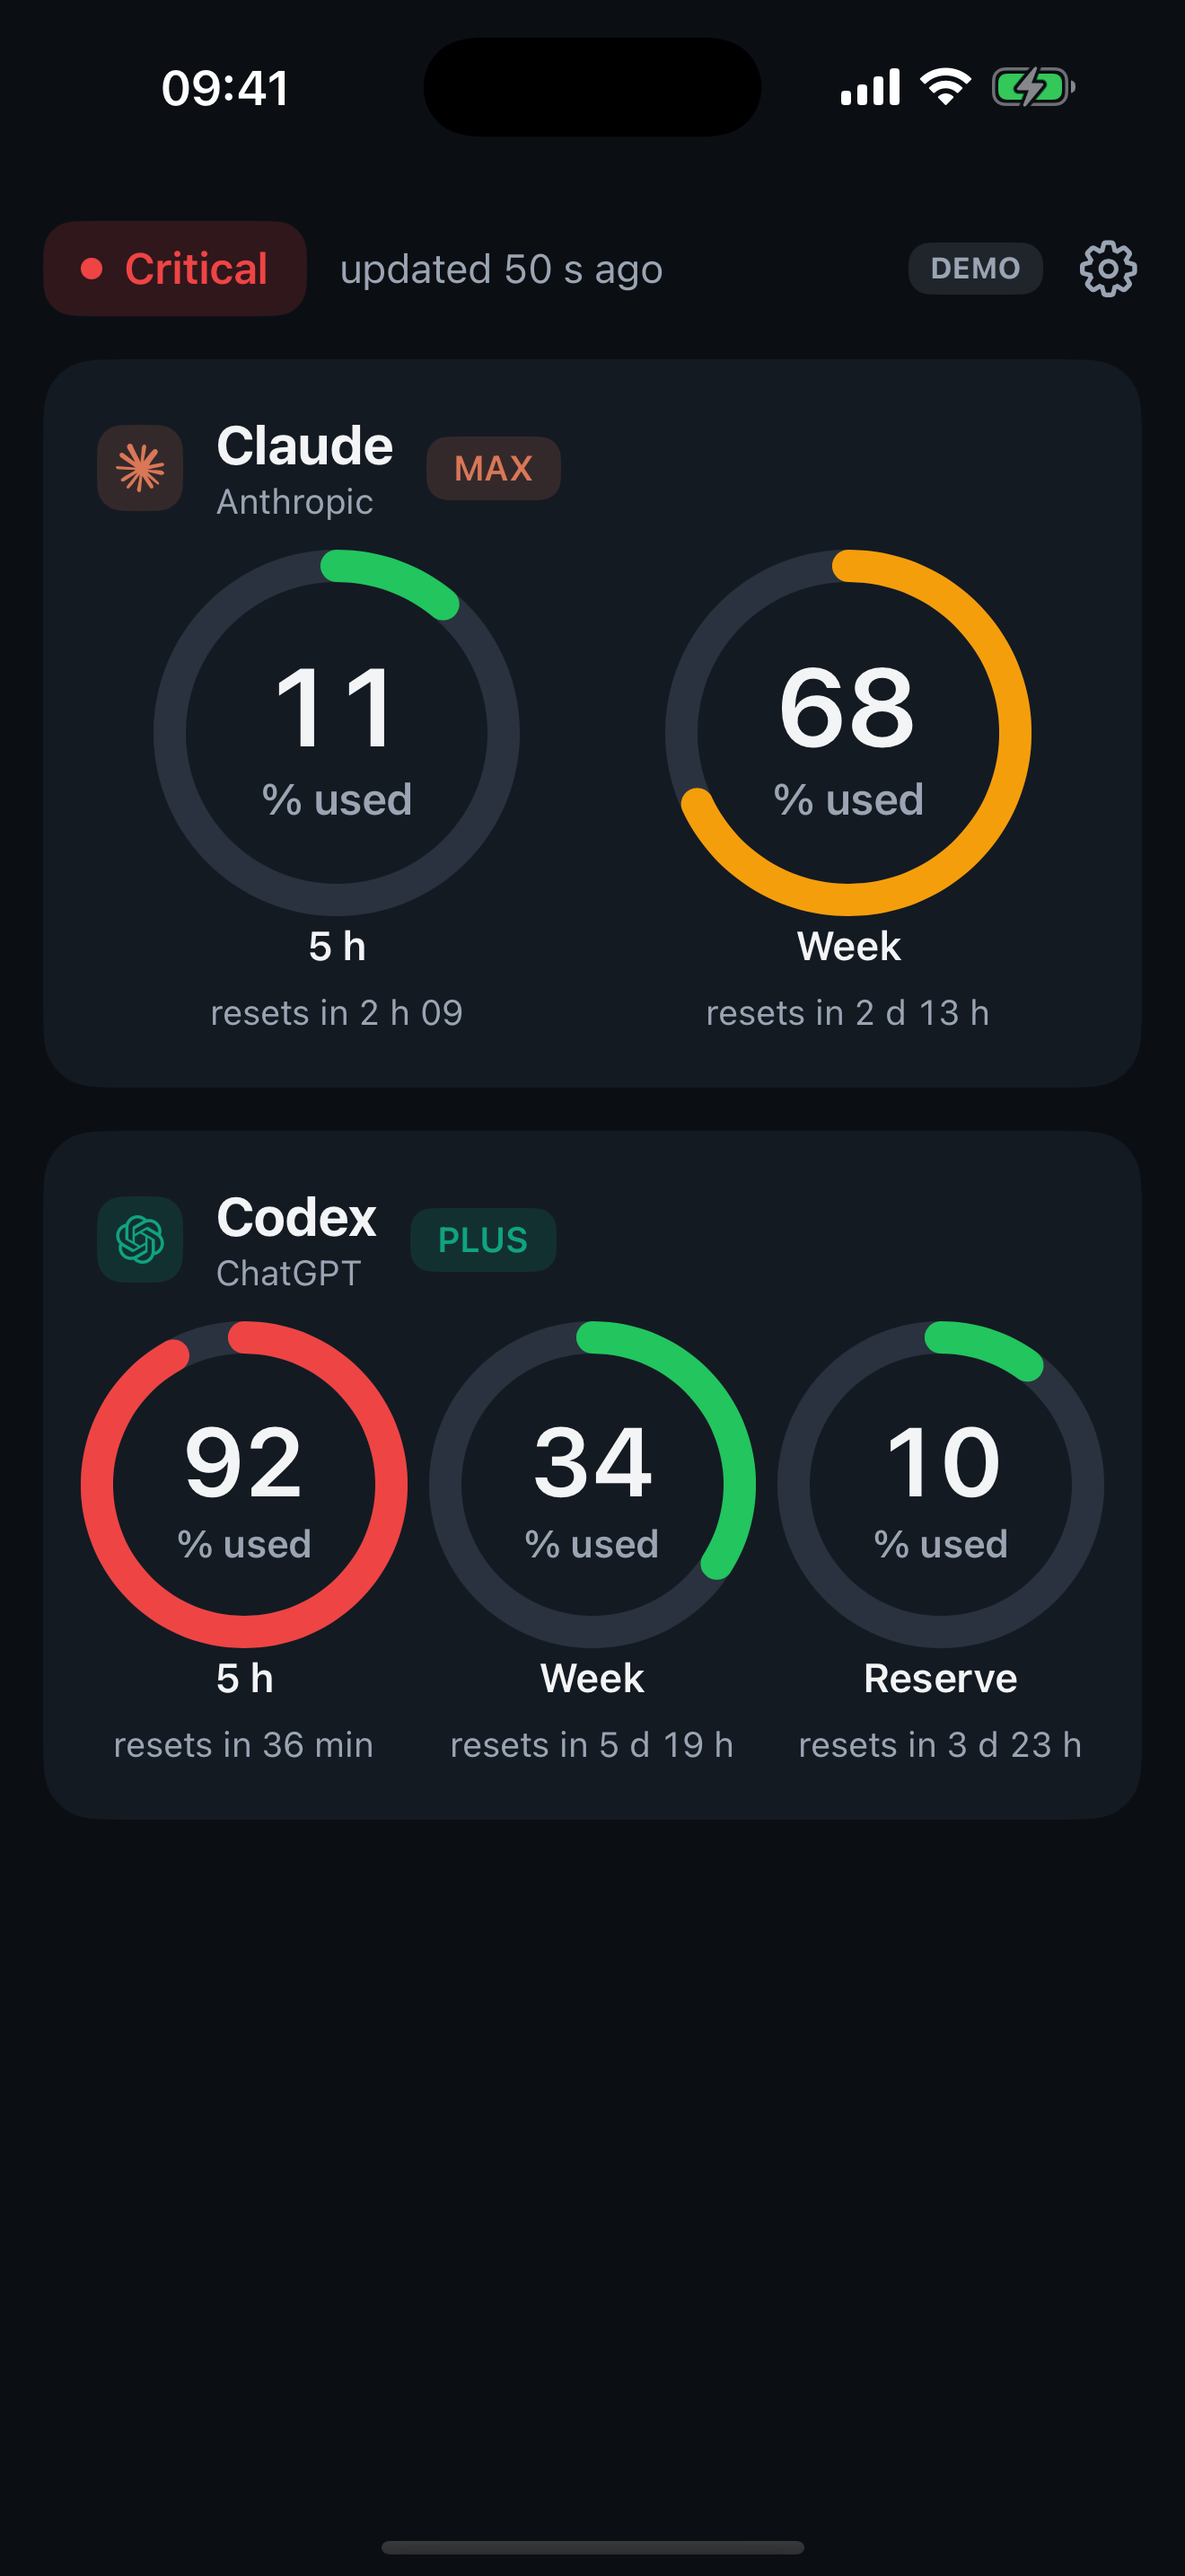
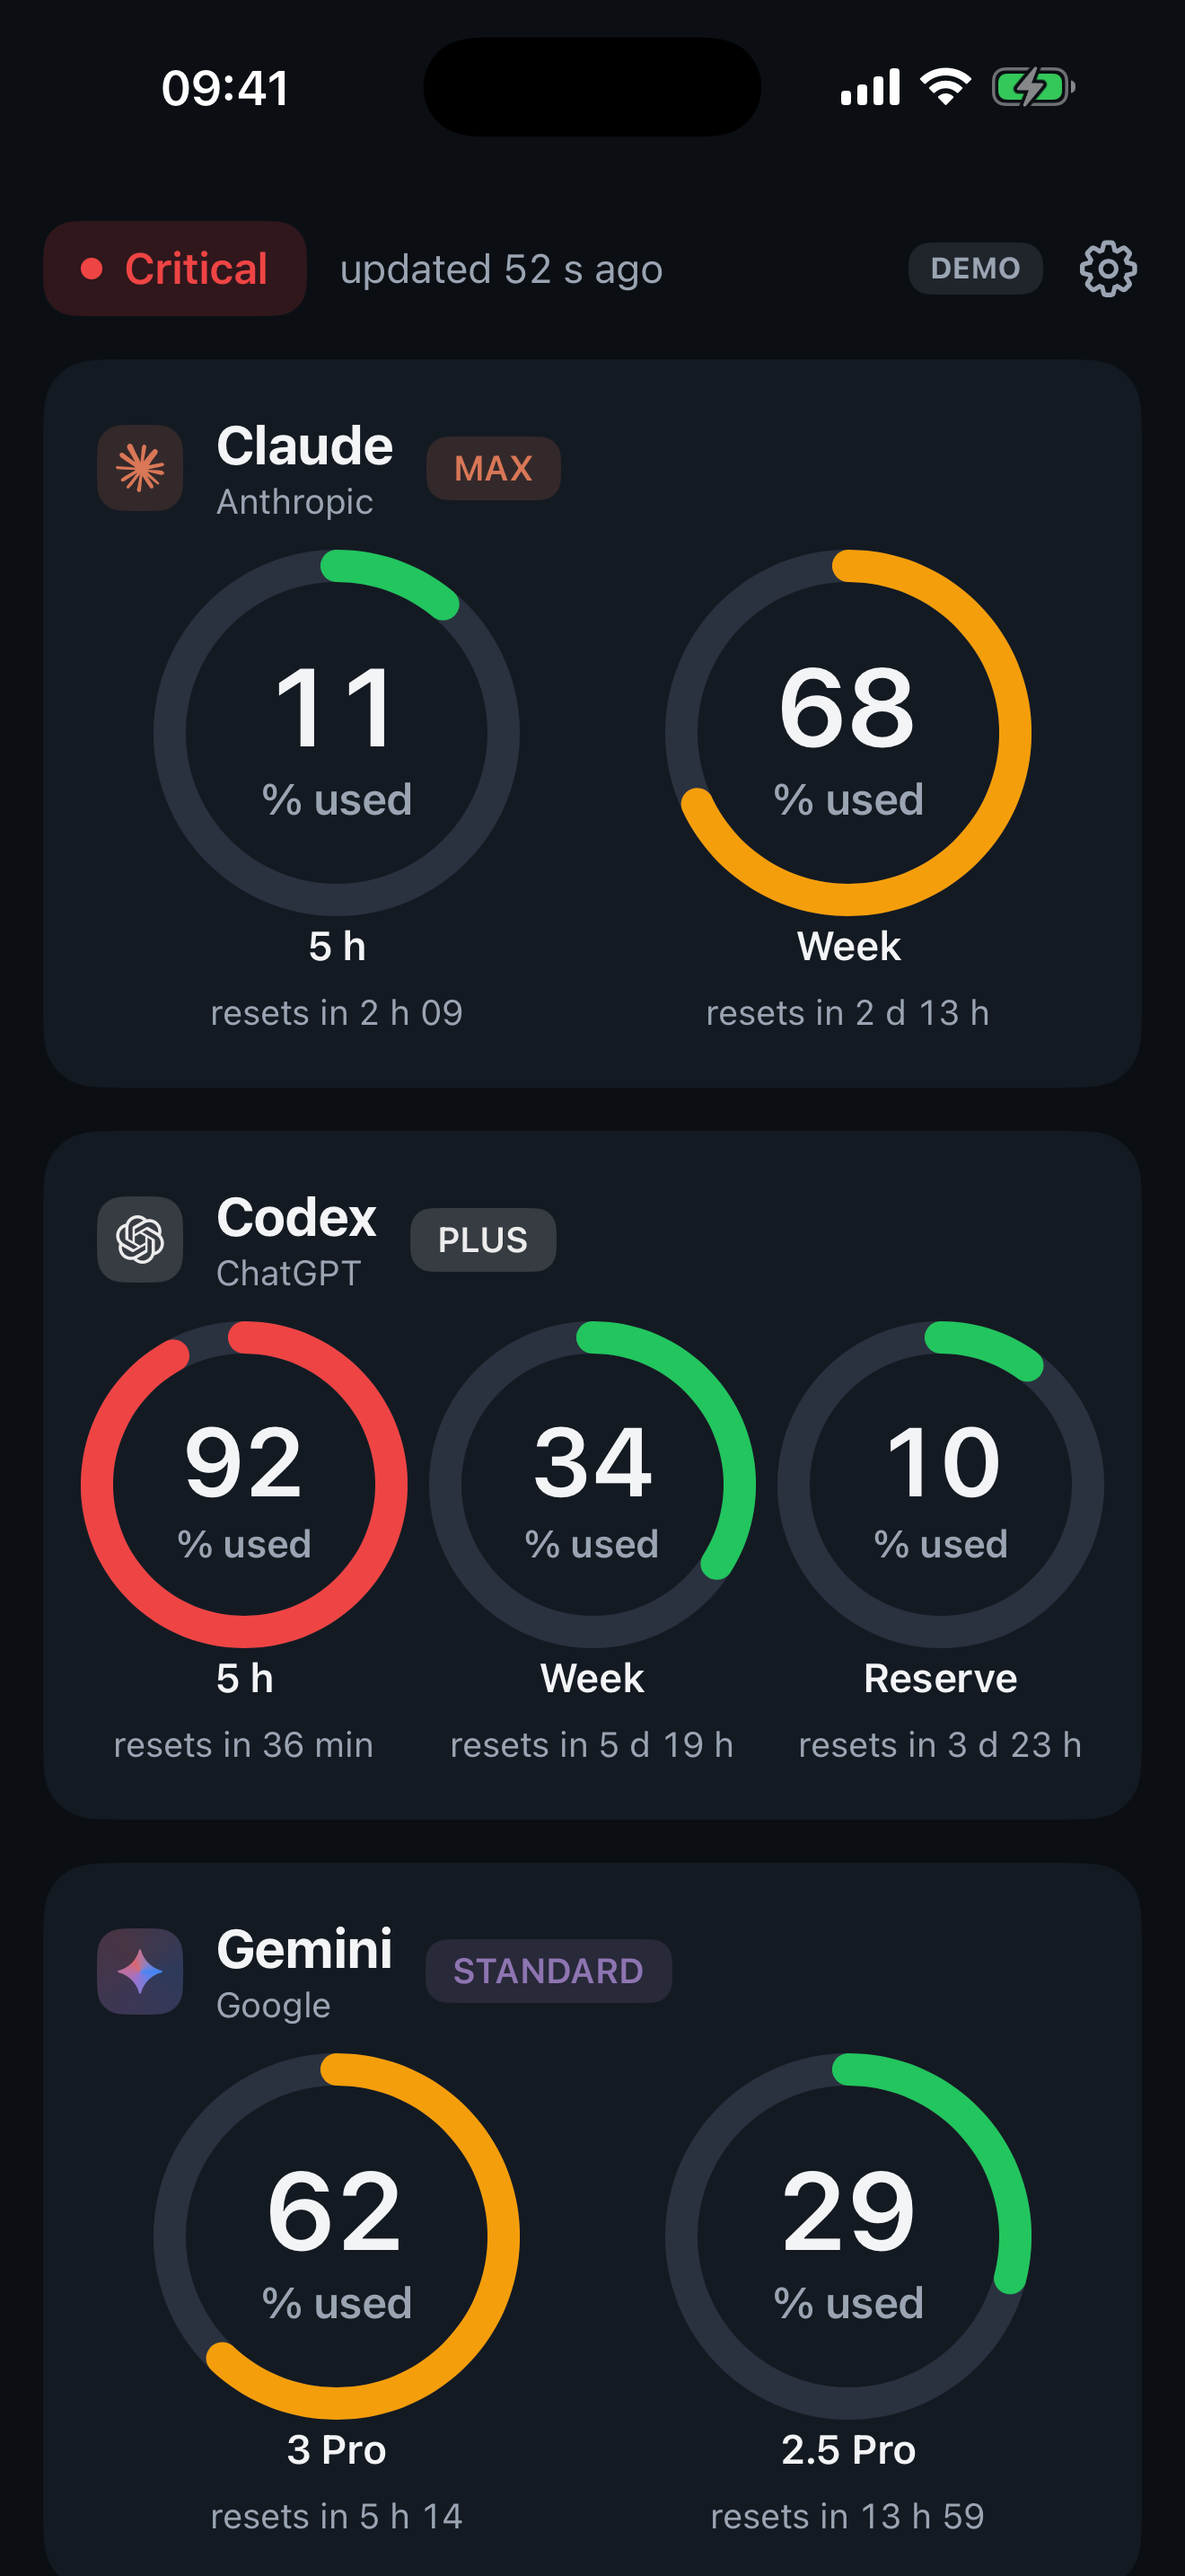
feat(ios): a Gemini card, three rings on the medium widget, one headline on the small
The small tile drops to the most-consumed provider once three report: three 54 pt rings on a
158 pt tile print numbers nobody reads at arm's length. The Gemini mark is the vendored
single-path star filled with the brand sweep — Xcode's SVG subset renders neither lobehub's
four overlapping gradients nor packed arc flags.

diff --git a/ios/Sources/Shared/WidgetViews.swift b/ios/Sources/Shared/WidgetViews.swift
@@ -84,28 +84,43 @@ struct WidgetProviderGroup: View {
 // MARK: - Home screen
 
 /// Small: one ring per provider — its headline window, the 5 h one when the provider reports
-/// one and its shortest otherwise.
+/// one and its shortest otherwise. Past two providers a small tile can only hold the
+/// headline: three 54 pt rings on a 158 pt tile print numbers nobody reads at arm's length.
 struct QuotaSmallView: View {
     let snapshot: Snapshot
     var now: Date = Date()
 
     @Environment(\.palette) private var palette
 
+    private var reported: [ProviderId] {
+        ProviderId.allCases.filter { snapshot.headlineWindow($0) != nil }
+    }
+
+    /// The providers this tile draws: all of them while there are two, the one closest to
+    /// its limit once there are more.
+    private var shown: [ProviderId] {
+        guard reported.count > 2 else { return reported }
+        return reported
+            .max { (snapshot.headlineWindow($0)?.percent ?? -1) < (snapshot.headlineWindow($1)?.percent ?? -1) }
+            .map { [$0] } ?? reported
+    }
+
     var body: some View {
         let stale = snapshot.isStale(now: now)
         let mode = snapshot.display
+        let diameter: CGFloat = shown.count == 1 ? 84 : 54
         VStack(alignment: .leading, spacing: 8) {
             WidgetHeader(snapshot: snapshot, now: now)
             Spacer(minLength: 0)
             HStack(spacing: 10) {
-                ForEach(ProviderId.allCases, id: \.self) { id in
+                ForEach(shown, id: \.self) { id in
                     if let window = snapshot.headlineWindow(id) {
                         VStack(spacing: 3) {
                             RingGauge(
                                 value: window.value(mode),
                                 severity: stale ? .stale : window.severity,
                                 mode: mode,
-                                diameter: 54,
+                                diameter: diameter,
                                 stroke: QuotaTheme.ringStrokeWidget,
                                 showsCaption: false
                             )
@@ -137,12 +152,17 @@ struct QuotaSmallView: View {
 /// Five rings fit on a 364 pt tile only in a screenshot — at the tile's real size each number
 /// lands around 6 pt of type. So each provider keeps the two windows that matter
 /// (``ProviderStatus/primaryWindows(limit:)``) and the rings grow to fill the space freed.
+/// With three providers the same arithmetic allows one ring each: three headlines, not six
+/// numbers too small to read.
 struct QuotaMediumView: View {
     let snapshot: Snapshot
     var now: Date = Date()
 
-    /// Two providers, two rings each, on one 364 x 170 tile.
-    private var ringDiameter: CGFloat { 66 }
+    private var providerCount: Int { snapshot.orderedProviders().count }
+    private var windowsPerProvider: Int { providerCount > 2 ? 1 : 2 }
+
+    /// Two providers, two rings each, on one 364 x 170 tile; three providers, one each.
+    private var ringDiameter: CGFloat { providerCount > 2 ? 72 : 66 }
 
     var body: some View {
         let stale = snapshot.isStale(now: now)
@@ -150,11 +170,11 @@ struct QuotaMediumView: View {
         VStack(alignment: .leading, spacing: 4) {
             WidgetHeader(snapshot: snapshot, now: now)
             Spacer(minLength: 0)
-            HStack(alignment: .top, spacing: 26) {
+            HStack(alignment: .top, spacing: providerCount > 2 ? 18 : 26) {
                 ForEach(snapshot.orderedProviders(), id: \.name) { entry in
                     WidgetProviderGroup(
                         name: entry.name,
-                        windows: entry.provider.primaryWindows(limit: 2),
+                        windows: entry.provider.primaryWindows(limit: windowsPerProvider),
                         mode: mode,
                         stale: stale,
                         diameter: ringDiameter,
@@ -211,7 +231,7 @@ struct QuotaCircularView: View {
     }
 }
 
-/// Rectangular: one line per provider, "Claude 89% · 2h09" and "Codex 8% · 36m".
+/// Rectangular: one line per reporting provider, "Claude 89% · 2h09", "Codex 8% · 36m".
 struct QuotaRectangularView: View {
     let snapshot: Snapshot
     var now: Date = Date()

diff --git a/ios/Sources/Shared/Cards.swift b/ios/Sources/Shared/Cards.swift
@@ -59,16 +59,37 @@ struct BrandMark: View {
         switch providerName.lowercased() {
         case "claude": return "BrandClaude"
         case "codex": return "BrandCodex"
+        case "gemini": return "BrandGemini"
         default: return nil
         }
     }
+
+    /// The Gemini mark is the one that carries its own palette: a flat tint of that logo is
+    /// a different logo. Xcode's SVG subset does not render lobehub's four overlapping
+    /// gradients, so the vendored single-path star is filled with the brand sweep instead —
+    /// same colours, one shape, and it survives every rendering scale.
+    private var isGemini: Bool { providerName.lowercased() == "gemini" }
 
     var body: some View {
         RoundedRectangle(cornerRadius: size * 0.3, style: .continuous)
             .fill(accent.opacity(0.16))
             .frame(width: size, height: size)
             .overlay {
-                if let assetName {
+                if isGemini {
+                    RoundedRectangle(cornerRadius: size * 0.3, style: .continuous)
+                        .fill(QuotaTheme.geminiSweep)
+                        .opacity(0.18)
+                }
+            }
+            .overlay {
+                if let assetName, isGemini {
+                    Image(assetName)
+                        .renderingMode(.template)
+                        .resizable()
+                        .scaledToFit()
+                        .frame(width: size * 0.56, height: size * 0.56)
+                        .foregroundStyle(QuotaTheme.geminiSweep)
+                } else if let assetName {
                     Image(assetName)
                         .renderingMode(.template)
                         .resizable()
@@ -95,6 +116,7 @@ struct BrandGlyph: View {
         switch providerName.lowercased() {
         case "claude": return "BrandClaude"
         case "codex": return "BrandCodex"
+        case "gemini": return "BrandGemini"
         default: return nil
         }
     }
@@ -102,6 +124,8 @@ struct BrandGlyph: View {
     var body: some View {
         if let assetName {
             Image(assetName)
+                // Template even for Gemini here: a lock-screen glyph is tinted by the system
+                // anyway, and a 9 pt gradient would read as mud.
                 .renderingMode(.template)
                 .resizable()
                 .scaledToFit()
@@ -115,6 +139,7 @@ func providerSubtitle(_ name: String) -> String? {
     switch name.lowercased() {
     case "claude": return "Anthropic"
     case "codex": return "ChatGPT"
+    case "gemini": return "Google"
     default: return nil
     }
 }

diff --git a/ios/Sources/Shared/Theme.swift b/ios/Sources/Shared/Theme.swift
@@ -1,4 +1,7 @@
 import SwiftUI
+#if canImport(UIKit)
+import UIKit
+#endif
 
 /// The tokens from `docs/DESIGN.md`, and nothing else. Severity has to mean the same green,
 /// amber and red on every surface, so none of these are system or accent colours.
@@ -12,7 +15,26 @@ enum QuotaTheme {
 
     // Provider accents.
     static let claude = Color(hex: 0xD97757)
-    static let codex = Color(hex: 0x10A37F)
+
+    /// OpenAI retired the ChatGPT green in its 2025 rebrand and is monochrome now. Their
+    /// black would vanish on ``Palette/dark``, so the accent follows the scheme.
+    #if os(watchOS)
+    // The watch is always dark: only the near-white half of the pair ever applies.
+    static let codex = Color(hex: 0xECECEC)
+    #else
+    static let codex = Color(uiColor: UIColor { traits in
+        traits.userInterfaceStyle == .dark ? UIColor(Color(hex: 0xECECEC)) : UIColor(Color(hex: 0x0D0D0D))
+    })
+    #endif
+
+    /// The Gemini mark is a blue → violet → pink sweep. ``geminiSweep`` draws it where a
+    /// gradient is cheap; this flat tint is what everything else uses.
+    static let gemini = Color(hex: 0x8E75B2)
+
+    static let geminiSweep = AngularGradient(
+        colors: [Color(hex: 0x4285F4), Color(hex: 0x9B72CB), Color(hex: 0xD96570), Color(hex: 0x4285F4)],
+        center: .center
+    )
 
     static func color(for severity: Severity) -> Color {
         switch severity {
@@ -27,6 +49,7 @@ enum QuotaTheme {
         switch providerName.lowercased() {
         case "claude": return claude
         case "codex": return codex
+        case "gemini": return gemini
         default: return stale
         }
     }

diff --git a/ios/Sources/Shared/DemoData.swift b/ios/Sources/Shared/DemoData.swift
@@ -44,6 +44,12 @@ enum DemoData {
                         window("weekly", "Week", used: 34, in: 140 * 3600, from: now),
                         window("reserve", "Reserve", used: 10, in: 96 * 3600, from: now),
                     ]),
+                // The Code Assist buckets are per model, most consumed first, so the headline
+                // window is a model name rather than a time window.
+                "gemini": ProviderStatus(plan: "Standard", windows: [
+                    window("gemini-3-pro", "3 Pro", used: 62, in: 315 * 60, from: now),
+                    window("gemini-2-5-pro", "2.5 Pro", used: 29, in: 14 * 3600, from: now),
+                ]),
             ],
             severity: Severity.critical.wire,
             display: display.rawValue

diff --git a/ios/Sources/Shared/Status.swift b/ios/Sources/Shared/Status.swift
@@ -173,14 +173,16 @@ enum DisplayMode: String, Sendable, CaseIterable, Identifiable {
     }
 }
 
-/// Display order and labels for the two providers this version knows about.
+/// Display order and labels for the providers this version knows about. Gemini only appears
+/// once the worker reports it: an unpaired Gemini CLI is an absent provider, not an empty card.
 enum ProviderId: String, CaseIterable, Sendable {
-    case claude, codex
+    case claude, codex, gemini
 
     var displayName: String {
         switch self {
         case .claude: return "Claude"
         case .codex: return "Codex"
+        case .gemini: return "Gemini"
         }
     }
 }

diff --git a/ios/Sources/App/PairingView.swift b/ios/Sources/App/PairingView.swift
@@ -18,7 +18,7 @@ struct PairingView: View {
                     Text("Quota")
                         .font(.system(size: 34, weight: .bold))
                         .foregroundStyle(palette.textPrimary)
-                    Text("Claude and Codex limits, on every screen you look at.")
+                    Text("Claude, Codex and Gemini limits, on every screen you look at.")
                         .font(.system(size: 16))
                         .foregroundStyle(palette.textSecondary)
                         .fixedSize(horizontal: false, vertical: true)

diff --git a/ios/Sources/WatchWidgets/QuotaWatchWidgets.swift b/ios/Sources/WatchWidgets/QuotaWatchWidgets.swift
@@ -16,7 +16,7 @@ struct QuotaWatchComplication: Widget {
             QuotaWatchComplicationView(entry: entry)
         }
         .configurationDisplayName("Quota")
-        .description("Claude and Codex limits, at a glance.")
+        .description("Claude, Codex and Gemini limits, at a glance.")
         .supportedFamilies([.accessoryCircular, .accessoryCorner, .accessoryRectangular, .accessoryInline])
     }
 }

diff --git a/ios/Sources/Widgets/QuotaWidgets.swift b/ios/Sources/Widgets/QuotaWidgets.swift
@@ -14,7 +14,7 @@ struct QuotaWidget: Widget {
             QuotaWidgetEntryView(entry: entry)
         }
         .configurationDisplayName("Quota")
-        .description("Claude and Codex limits, at a glance.")
+        .description("Claude, Codex and Gemini limits, at a glance.")
         .supportedFamilies([.systemSmall, .systemMedium, .accessoryCircular, .accessoryRectangular])
     }
 }

diff --git a/ios/README.md b/ios/README.md
@@ -12,7 +12,7 @@ on the e-ink screen.
 
 | Target | What |
 |---|---|
-| `Quota` | The phone app: pairing, the two provider cards, Settings, `BGAppRefreshTask` |
+| `Quota` | The phone app: pairing, one card per reporting provider, Settings, `BGAppRefreshTask` |
 | `QuotaWidgets` | Home screen small + medium, lock screen circular + rectangular |
 | `QuotaWatch` | watchOS app, every window as a ring in a scrollable view |
 | `QuotaWatchWidgets` | Complications: circular, corner, rectangular, inline |
@@ -47,7 +47,8 @@ watch app, with its own complication extension inside it, in `Quota.app/Watch/`.
 Settings carries a **Demo data** switch. It fills the shared store — and therefore the widgets
 and the watch — with `DemoData`, whose numbers are the same ones the Android build uses and
 deliberately cover the three severities: an ok Claude 5 h, a warn Claude week, a critical Codex
-5 h. Reset times are relative to now, so the "resets in …" line stays worth looking at.
+5 h, and a Gemini pair of model buckets — Gemini only appears once the backend reports it, so
+the demo payload is the one way to see that third card before the credential exists. Reset times are relative to now, so the "resets in …" line stays worth looking at.
 
 Dragging a widget onto the home screen is not scriptable, so **Settings → Preview widgets**
 renders `QuotaMediumView`, `QuotaSmallView`, `QuotaCircularView` and `QuotaRectangularView` at
